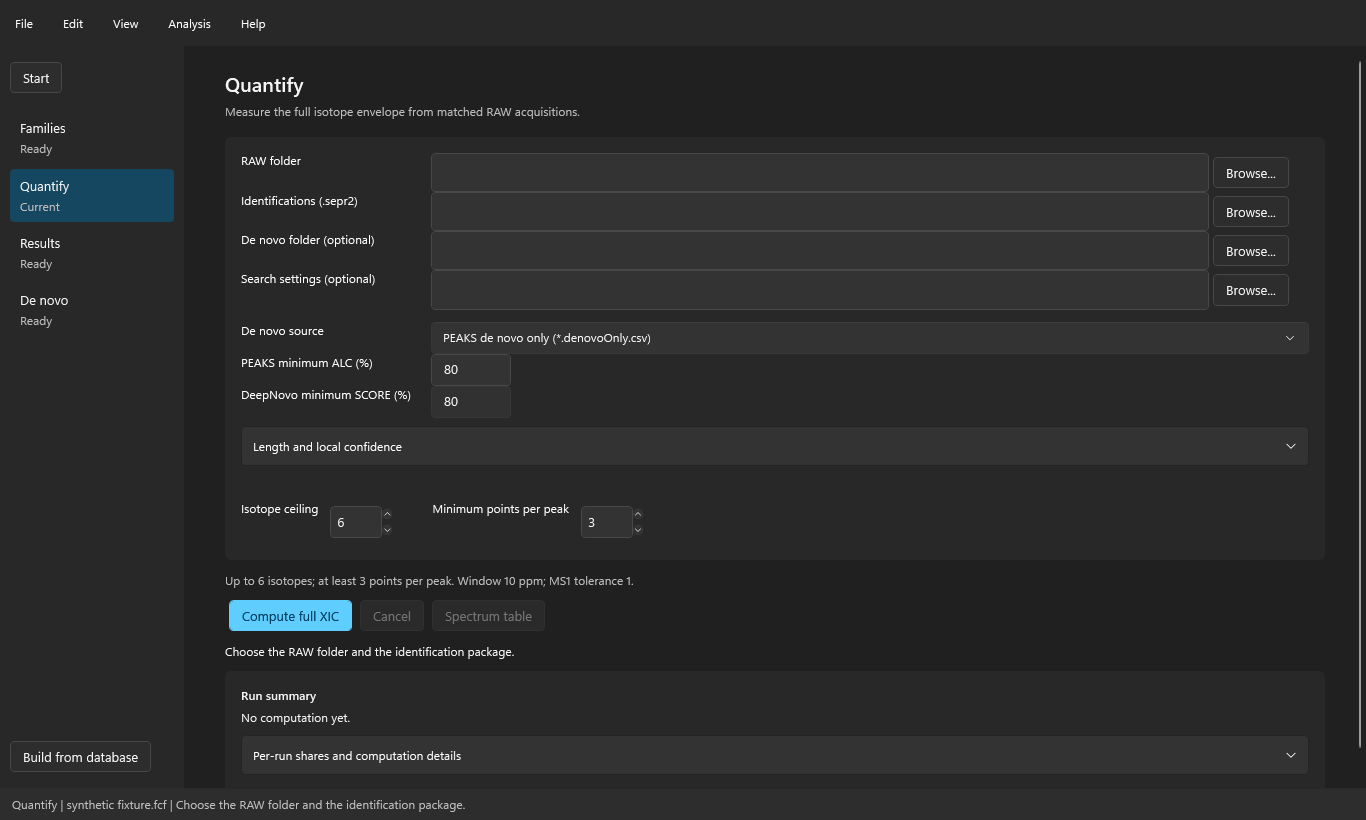
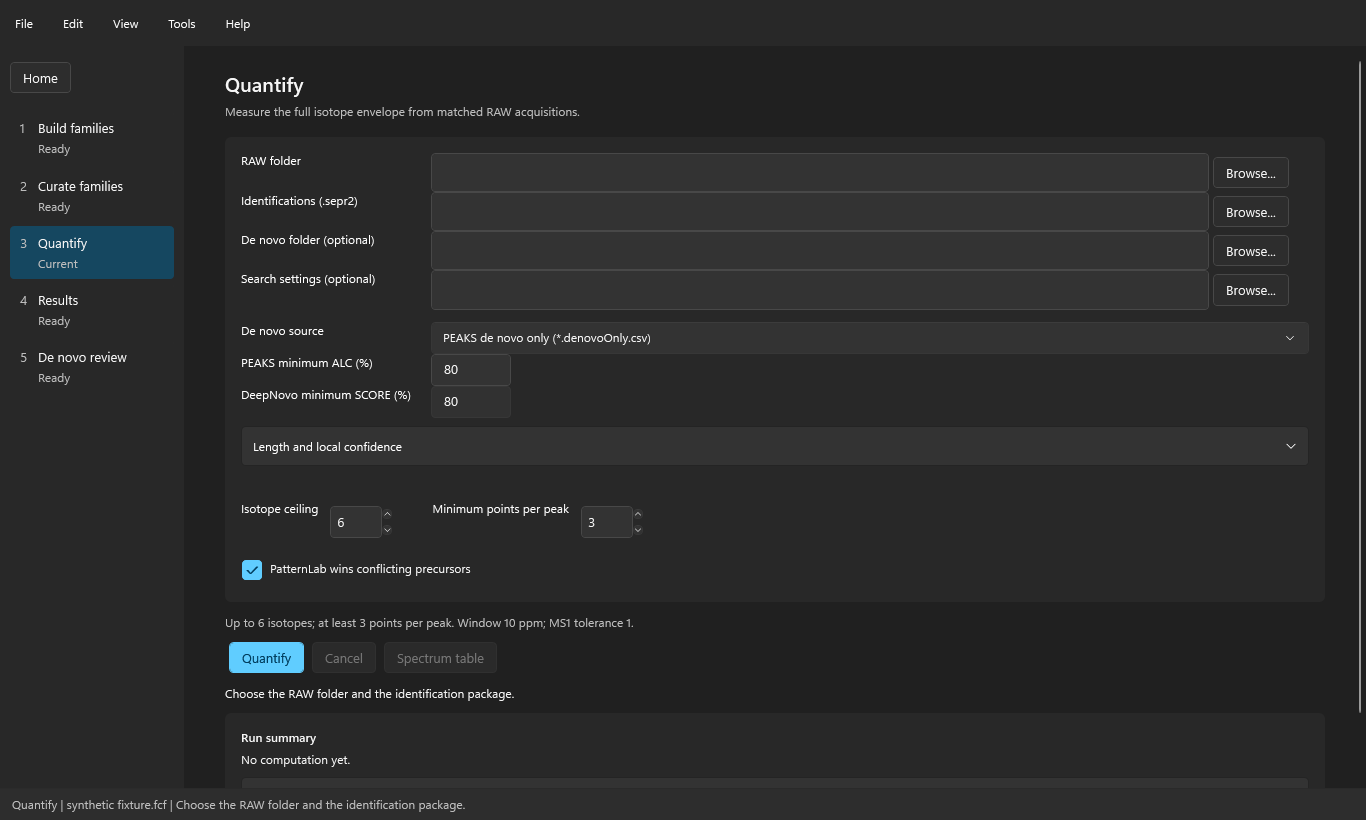
Z1i Refresh Curate families Quantify and Results screenshots for 2.1.8

diff --git a/README.md b/README.md
@@ -108,7 +108,7 @@ Open **2 Curate families** on Home or the sidebar, or **View > Curate families**
 
 The **Read grouping task** screen counts the taxa it asks UniProt about and needs an internet connection. Part b, **Group by words**, merges families by a keyword list (**Group by keywords**) or by their description words (**Recluster by words**); both are reviewed before they apply, and **Undo** reverses them.
 
-![Synthetic dark Families screen with the four numbered Grouping steps, next-step highlight and status](docs/images/app-families.png)
+![Synthetic dark Curate families screen with selected-family tables, USearch IDs and the evidence and word grouping parts](docs/images/app-families.png)
 
 ### 4. Add inputs and compute
 
@@ -116,7 +116,7 @@ Choose **Quantify** in the Grouping panel, **3 Quantify** on Home or the sidebar
 
 Review the available settings, including **PatternLab wins conflicting precursors** (on by default), and choose **Quantify**. Progress shows the current step and elapsed time; **Operation log** shows recorded steps and **Cancel** requests cancellation. Save the project after a successful computation.
 
-![Synthetic Quantify screen with input and compute controls](docs/images/app-quantify.png)
+![Synthetic Quantify screen with input settings, the conflict rule and the Quantify action](docs/images/app-quantify.png)
 
 ### 5. Read the results
 
